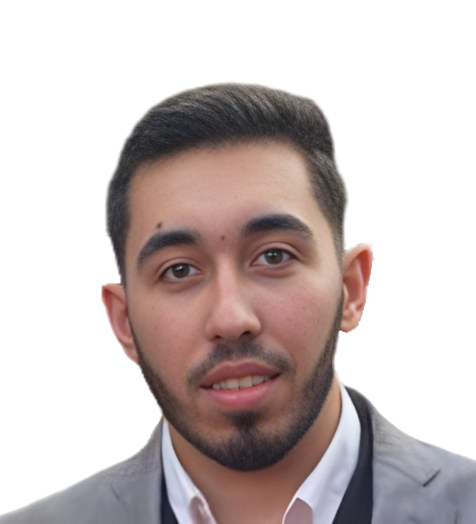
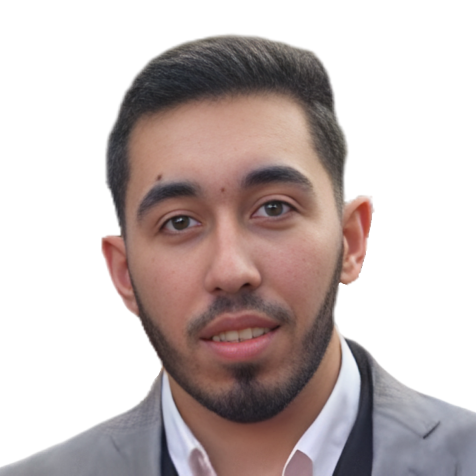
improvements

diff --git a/src/routes/+page.svelte b/src/routes/+page.svelte
@@ -11,17 +11,26 @@
 
 <div class="lg:min-h-full lg:grid lg:grid-cols-8">
 
-    <div class="col-span-3 lg:min-h-full flex items-center justify-center p-10">
+    <div class="col-span-3 lg:min-h-full flex flex-col items-center justify-center p-10">
         <div 
-            class="aspect-3/4 border-8 border-primary rounded-4xl overflow-hidden w-[400px] lg:w-full min-h-[400px] bg-muted"
+            class="aspect-square border-8 border-primary rounded-4xl overflow-hidden w-[400px] lg:w-full"
             in:fly|global={{ y: 100, duration: 500, delay: 0 }}
         >
             <img 
                 src={info.image} 
                 alt={info.name} 
-                class="object-fit h-full opacity-0 transition-opacity duration-700 ease-in-out"
+                class="object-cover opacity-0 transition-opacity duration-700 ease-in-out w-full"
                 onload={(e) => e.currentTarget.classList.remove('opacity-0')}
             />
+        </div>
+
+        <div 
+            class="flex flex-wrap mt-4 gap-x-2 gap-y-4 justify-center"
+            in:fly|global={{ y: 100, duration: 500, delay: 100 }}
+        >
+            {#each Object.entries(info.socials) as [name, href]}
+                <Logo name={name} href={href} new_window size={3}/>
+            {/each}
         </div>
     </div>
 
@@ -29,7 +38,7 @@
 
         <div 
             class="text-5xl font-bold" 
-            in:fly|global={{ y: 100, duration: 500, delay: 100 }}
+            in:fly|global={{ y: 100, duration: 500, delay: 200 }}
         >
             I'm  
             <span class="text-primary">
@@ -55,36 +64,20 @@
         
         <div 
             class="text-3xl font-bold mt-4"
-            in:fly|global={{ y: 100, duration: 500, delay: 200 }}
+            in:fly|global={{ y: 100, duration: 500, delay: 300 }}
         >
             {info.role}
         </div>
         <div 
             class="text-lg mt-4"
-            in:fly|global={{ y: 100, duration: 500, delay: 300 }}
+            in:fly|global={{ y: 100, duration: 500, delay: 400 }}
         >
             {info.summary}
         </div>
 
-        <div 
-            class="flex flex-wrap mt-4 gap-x-2 gap-y-4"
-            in:fly|global={{ y: 100, duration: 500, delay: 400 }}
-        >
-            {#each Object.entries(info.socials) as [name, href]}
-                <Logo name={name} href={href} new_window size={3}/>
-            {/each}
-            <Button 
-                variant="outline" 
-                class="lg:ml-4 text-lg h-full hover:scale-105 transition-transform duration-150 ease-in-out border-2 hover:!border-primary" 
-                href="/journey"
-            > 
-                Find out more!
-            </Button>
-        </div>
-
         <div
             in:fly|global={{ y: 100, duration: 500, delay: 500 }}
-            class="relative"
+            class="relative -mt-4"
         >
             <div class="absolute text-4xl font-bold text-primary mt-10 ml-12">
                 Tech Stack

diff --git a/src/lib/components/ui/calendar/calendar-year-select.svelte b/src/lib/components/ui/calendar/calendar-year-select.svelte
@@ -24,38 +24,6 @@
 
 </script>
 
-<!-- <span
-	class={cn(
-		"has-focus:border-ring border-input shadow-xs has-focus:ring-ring/50 has-focus:ring-[3px] relative flex rounded-md border",
-		className
-	)}
->
-	<CalendarPrimitive.YearSelect bind:ref class="absolute inset-0 opacity-0" {...restProps}>
-		{#snippet child({ props, yearItems, selectedYearItem })}
-			<select {...props} {value}>
-				{#each yearItems as yearItem (yearItem.value)}
-					<option
-						value={yearItem.value}
-						selected={value !== undefined
-							? yearItem.value === value
-							: yearItem.value === selectedYearItem.value}
-					>
-						{yearItem.label}
-					</option>
-				{/each}
-			</select>
-			<span
-				class="[&>svg]:text-muted-foreground flex h-8 select-none items-center gap-1 rounded-md pl-2 pr-1 text-sm font-medium [&>svg]:size-3.5"
-				aria-hidden="true"
-			>
-				{yearItems.find((item) => item.value === value)?.label || selectedYearItem.label}
-				<ChevronDownIcon class="size-4" />
-			</span>
-		{/snippet}
-	</CalendarPrimitive.YearSelect>
-</span> -->
-
-
 <div
 	class={cn(
 		"relative",
@@ -71,7 +39,7 @@
 				value={selectedYearItem.value.toString()}
 			>
 				<Select.Trigger 
-					class="!h-8 !bg-gradient-to-br from-card to-secondary cursor-pointer pr-1"
+					class="!h-8 !bg-gradient-to-br from-card to-secondary cursor-pointer pr-1 pl-2 hover:border-primary"
 				>
 					{selectedYearItem.label}
 				</Select.Trigger>

diff --git a/src/routes/journey/+page.svelte b/src/routes/journey/+page.svelte
@@ -3,6 +3,7 @@
     import { Label } from "$lib/components/ui/label/index.js";
     import { fly, slide } from 'svelte/transition';
     import CircleQuestionMark from "$lib/assets/circleQuestionMark.svelte";
+    import * as Tooltip from "$lib/components/ui/tooltip/index.js";
 
     import Search, { filter } from "$lib/my-components/search.svelte";
     import Results from "$lib/my-components/results.svelte";
@@ -81,10 +82,23 @@
         </div>
     {/each}
 
-    <a href="/projects" class=" flex items-center hover:underline hover:text-primary">
-        <CircleQuestionMark /> 
-        <span class="text-lg ml-2">Projects</span>
-    </a>
+    <Tooltip.Provider delayDuration={0}>
+        <Tooltip.Root>
+            <Tooltip.Trigger>
+                <a href="/projects" class=" flex items-center hover:underline hover:text-primary">
+                    <CircleQuestionMark /> 
+                    <span class="text-lg ml-2">Projects</span>
+                </a>
+            </Tooltip.Trigger>
+            <Tooltip.Content 
+                side="bottom" 
+                class="bg-accent border border-primary text-foreground"
+                arrowClasses="bg-accent border border-primary"
+            >
+                Projects not listed here, click to see them!
+            </Tooltip.Content>
+        </Tooltip.Root>
+    </Tooltip.Provider>
 </div>
 
 <Results bind:results >

diff --git a/src/lib/data/certification.ts b/src/lib/data/certification.ts
@@ -9,7 +9,7 @@ export const certifications: Certification[] = [
         id: "masters",
         title: "MSc in Computer Science and Engineering",
         date: "2025-07",
-        description: "Completed my Master's at the University of Aveiro with a final classification of 18.35/20, specializing in Software Engineering, Machine Learning, and Distributed Computing",
+        description: "Completed my Master's at the University of Aveiro with a final classification of 18.35/20, specializing in Software Engineering, Machine Learning, and Distributed Computing.",
         content: masters
     },
     {
@@ -23,7 +23,7 @@ export const certifications: Certification[] = [
         id: "aws-academy",
         title: "AWS Academy Graduate",
         date: "2023-11",
-        description: "Completed the AWS Academy Cloud Foundations program, demonstrating a foundational understanding of AWS cloud architecture, core services, security, and economics",
+        description: "Completed the AWS Academy Cloud Foundations program, demonstrating a foundational understanding of AWS cloud architecture, core services, security, and economics.",
         content: awsAcademy
     }
 ];

diff --git a/src/lib/components/ui/calendar/calendar-month-select.svelte b/src/lib/components/ui/calendar/calendar-month-select.svelte
@@ -39,7 +39,7 @@
 				value={selectedMonthItem.value.toString()}
 			>
 				<Select.Trigger 
-					class="!h-8 !bg-gradient-to-br from-card to-secondary cursor-pointer pr-1"
+					class="!h-8 !bg-gradient-to-br from-card to-secondary cursor-pointer pr-1 pl-2 hover:border-primary"
 				>
 					{selectedMonthItem.label}
 				</Select.Trigger>
